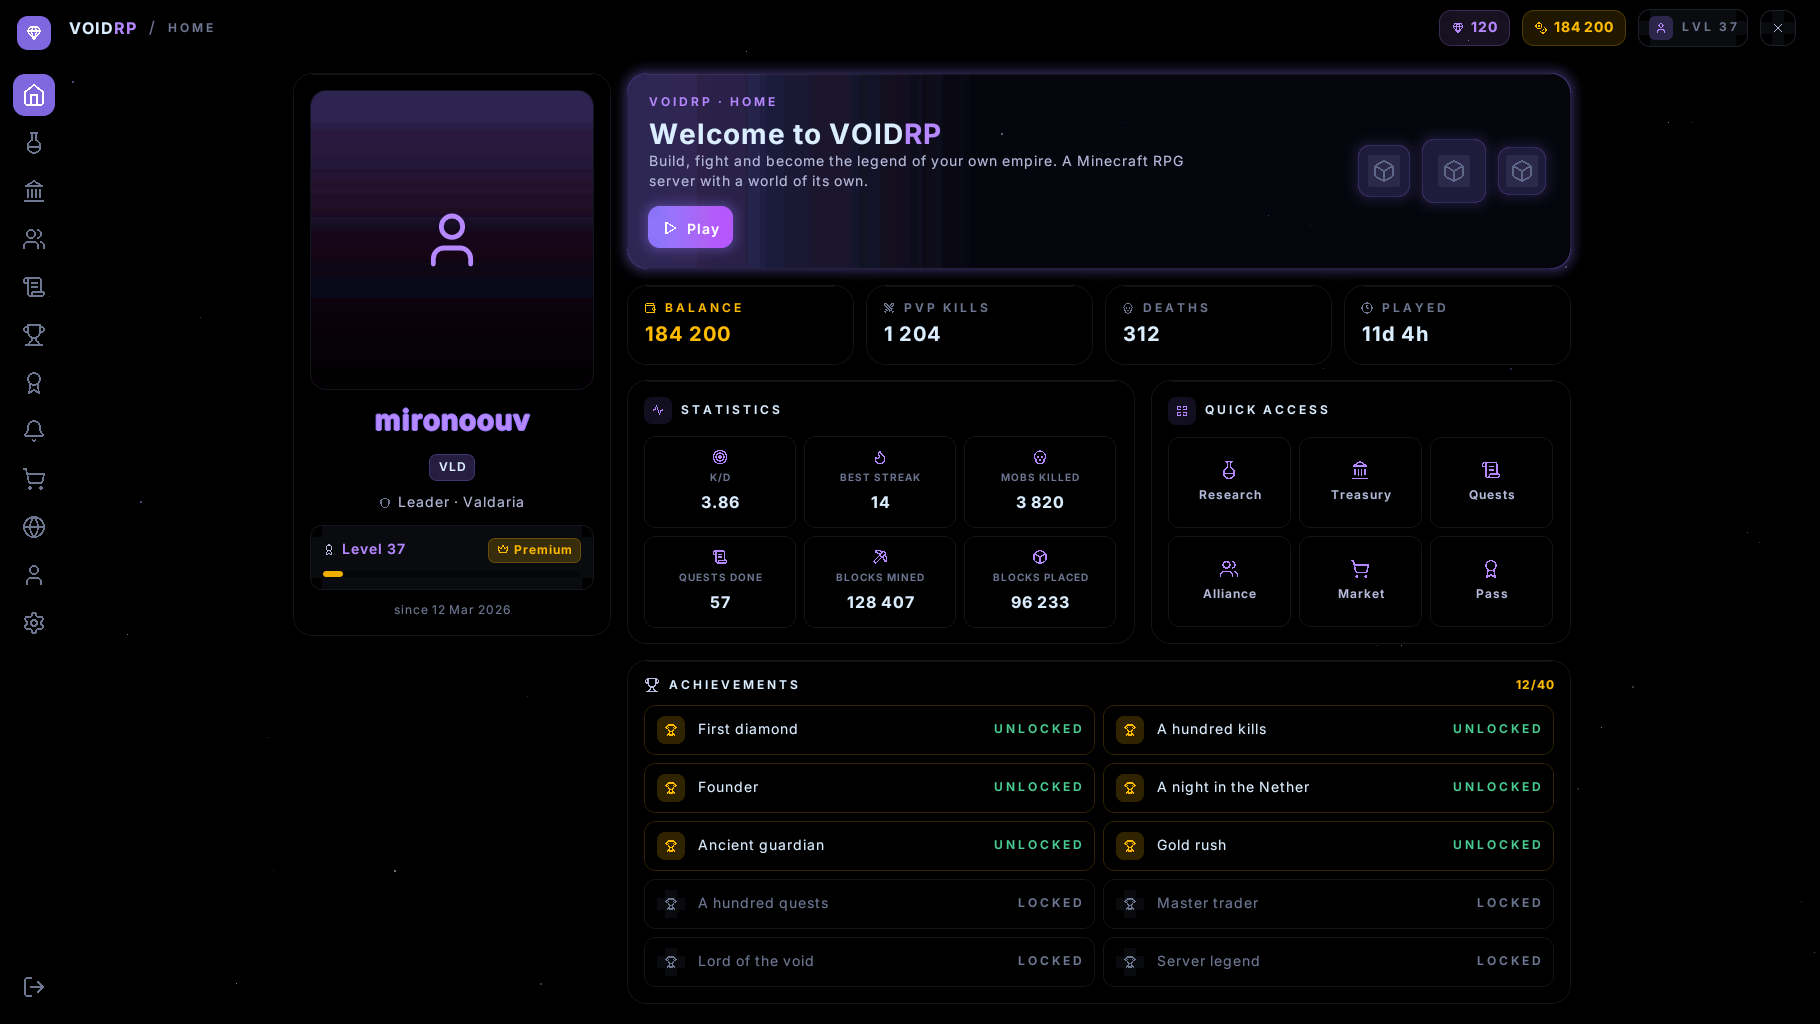
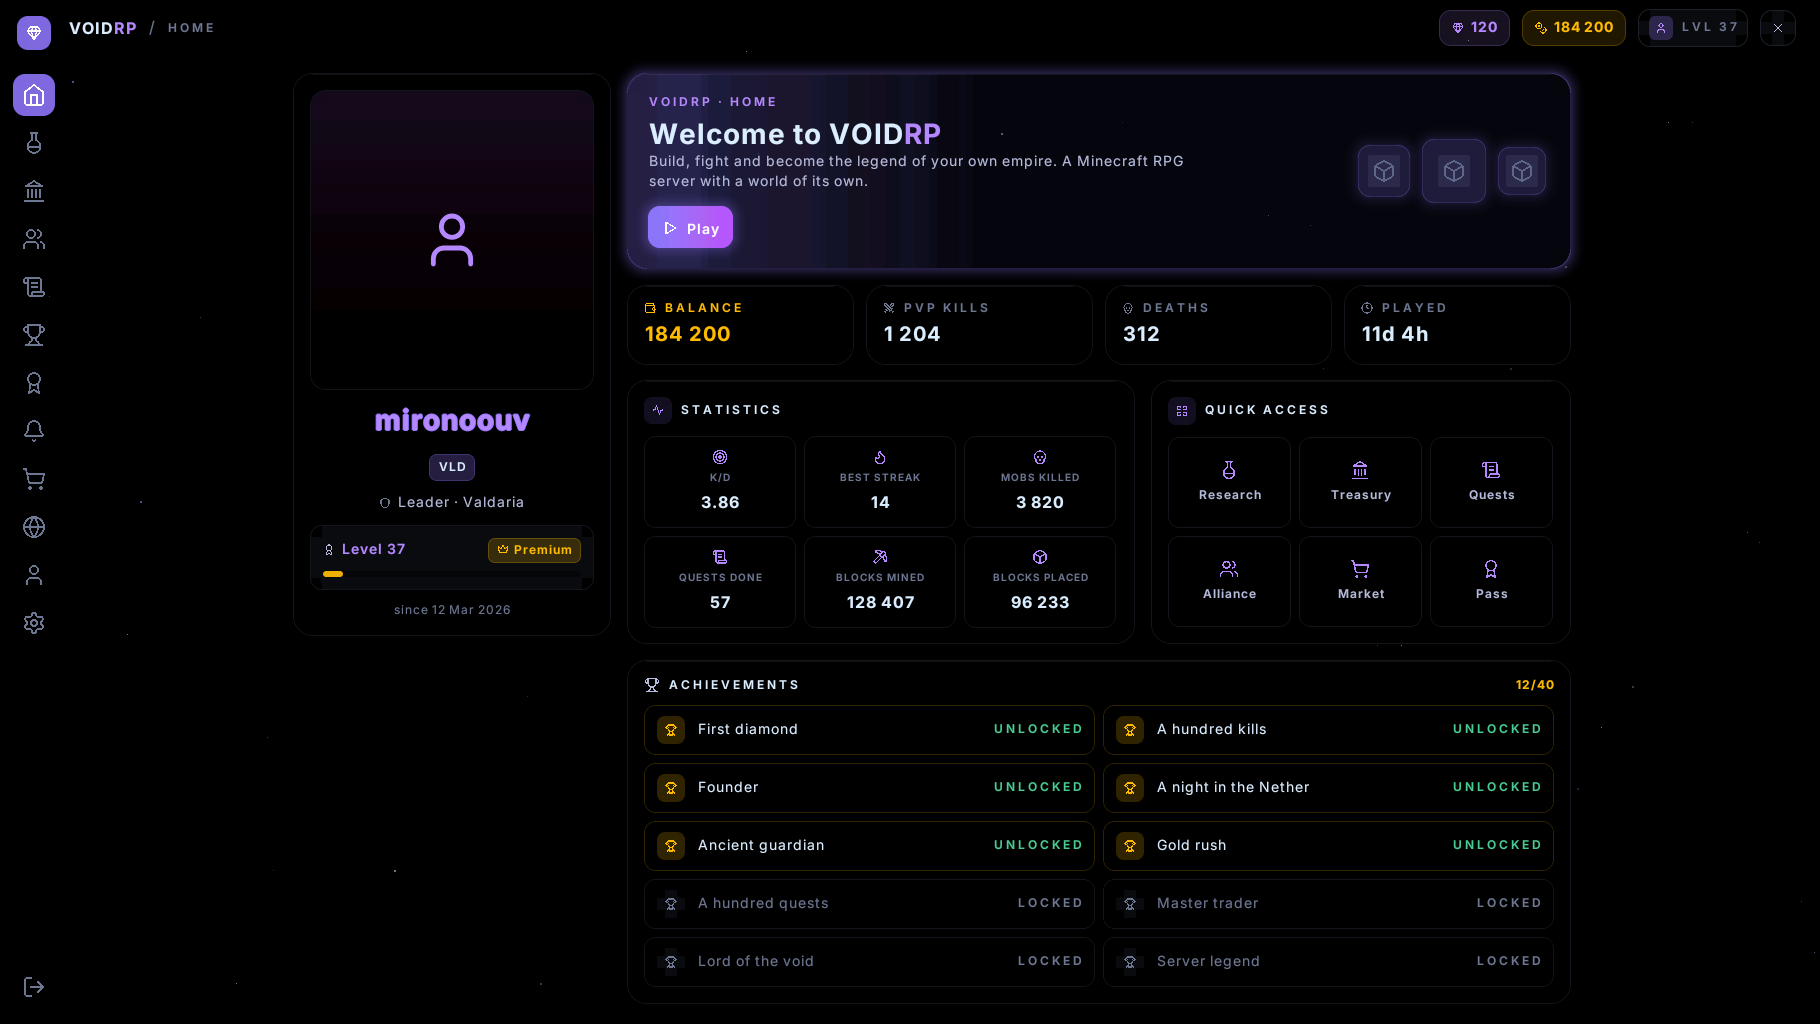
A tenth of the page was the third byte of a character that draws nothing
The invisible spacers that move the pen lived in the private use area,
where a code point costs three bytes in UTF-8. A page is mostly spacers —
the pen is moved before nearly every shape — so the home page was
spending kilobytes on a byte that says nothing. Anything from 0x80 to
0x7FF costs two, and Syriac is a block the typeface has no letters in, so
a spacer there can never collide with a glyph in the same font. The home
page went from 94 to 90 KB with more shapes on it than before.

And two washes that were banding: the well behind the player's head steps
gently now instead of jumping a third of the way to violet, and the
banner's fade has a stripe every eight units rather than every forty,
which is what a wash a thousand units wide needs.

Changed region(s): [[0.1538, 0.0625, 0.3385, 0.2188], [0.1538, 0.2812, 0.3385, 0.3125]]

diff --git a/src/main/kotlin/ru/voidrp/ui/page/HomePage.kt b/src/main/kotlin/ru/voidrp/ui/page/HomePage.kt
@@ -115,7 +115,9 @@ open class HomePage : Page() {
 
     /** The well the player stands in: a card's own surface, and the light inside it. */
     private val WELL get() = Palette.composite(Theme.tileFill, Theme.onCard)
-    private val WELL_LIGHT get() = Palette.composite(Paint(Theme.VIOLET, 0.35), WELL)
+    // A gentle step: the well is lit rather than painted, and a jump this wash cannot
+    // express in its handful of shades comes out as stripes across the card.
+    private val WELL_LIGHT get() = Palette.composite(Paint(Theme.VIOLET, 0.16), WELL)
 
     /** The well the player stands in, in the profile card. */
     private val WELL_WIDTH = 286
@@ -462,10 +464,14 @@ open class HomePage : Page() {
             background = Gradient(
                 // Both ends are the accent over the surface this panel stands on, so the
                 // banner follows the theme instead of carrying two violets of its own.
-                Paint(Palette.composite(Paint(Theme.VIOLET, 0.30), CARD)),
-                Paint(Palette.composite(Paint(Theme.VIOLET, 0.06), CARD)),
+                Paint(Palette.composite(Paint(Theme.VIOLET, 0.24), CARD)),
+                Paint(Palette.composite(Paint(Theme.VIOLET, 0.04), CARD)),
                 direction = GradientDirection.HORIZONTAL,
                 over = CARD,
+                // One stripe every eight units rather than every few: the wash is a
+                // thousand units wide, and the fewer stripes it has the more each one has
+                // to step, which is what makes a wash this size come out in bands.
+                steps = 128,
                 // The site holds the violet for the first fifth and then drops away fast;
                 // a fade that starts at the very edge is dimmer than it where the words are.
                 start = 0.0,

diff --git a/src/main/kotlin/ru/voidrp/ui/pack/Glyphs.kt b/src/main/kotlin/ru/voidrp/ui/pack/Glyphs.kt
@@ -68,7 +68,17 @@ object Glyphs {
     private const val CORNER_BASE = 0xE400
     private const val RING_BASE = 0xE600
     private const val GLOW_BASE = 0xEB00
-    private const val SPACER_BASE = 0xE800
+    /**
+     * Where the invisible spacers live: Syriac, of all places.
+     *
+     * They were in the private use area, and a private-use code point costs three bytes in
+     * UTF-8. A page is mostly spacers — the pen is moved before nearly every shape — so the
+     * home page spent about a tenth of its ninety kilobytes on the third byte of a
+     * character that draws nothing. Anything from 0x80 to 0x7FF costs two, and this block
+     * is one the typeface has no letters in, so a spacer can never collide with a glyph in
+     * the same font.
+     */
+    private const val SPACER_BASE = 0x0700
 
     /** The font that draws shapes at [level]/8 opacity. */
     fun fontName(level: Int): String = "ui_a${level.coerceIn(1, ALPHA_LEVELS)}"

diff --git a/src/test/kotlin/ru/voidrp/ui/ClientSimulator.kt b/src/test/kotlin/ru/voidrp/ui/ClientSimulator.kt
@@ -78,7 +78,7 @@ class ClientSimulator(pack: File) {
 
     private fun advance(font: String, code: Int): Int = fonts[font]?.get(code) ?: 0
 
-    private fun isSpacer(code: Int): Boolean = code in 0xE800..0xE8FF
+    private fun isSpacer(code: Int): Boolean = code in 0x0700..0x07FF
 
     private fun runs(component: Component): List<Pair<String, String>> {
         val out = mutableListOf<Pair<String, String>>()
